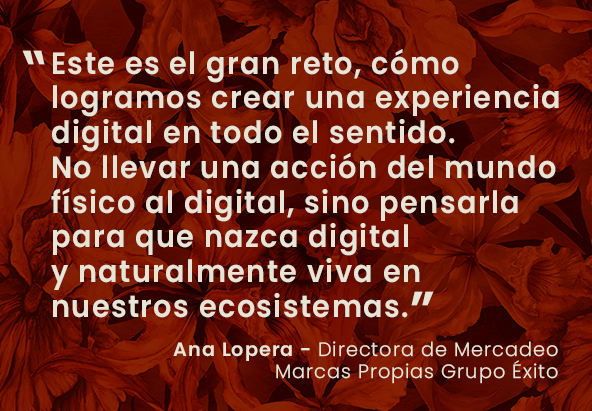
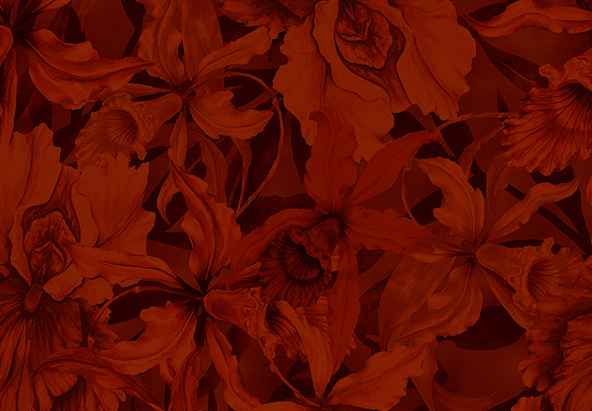
[CLM-19548] Replace image and add text

Changed region(s): [[0.0304, 0.1168, 0.9426, 0.7883], [0.2736, 0.8175, 0.9426, 0.9343]]

diff --git a/src/app/components/pages/room-knowledge/room-knowledge.component.html b/src/app/components/pages/room-knowledge/room-knowledge.component.html
@@ -51,7 +51,7 @@
         <!--<div class="inner d-flex justify-content-center align-items-center">-->
         <div class="inner d-flex justify-content-center align-items-center">
           <!--<h2 class="mb-0">Loremipsum dolor sit ametelit<br>Loremipsum dolor sit ametelit</h2>-->
-          <!--<div class="text-center">
+          <div class="text-center">
             <p>
               “Este es el gran reto, cómo logramos crear una experiencia digital en todo el sentido. No llevar una acción
               del mundo físico al digital, sino pensarla para que nazca digital y naturalmente viva en nuestros
@@ -63,7 +63,7 @@
               Directora de Mercadeo Marcas Propias <br>
               Grupo Éxito
             </p>
-          </div>-->
+          </div>
         </div>
       </div>
     </div>
